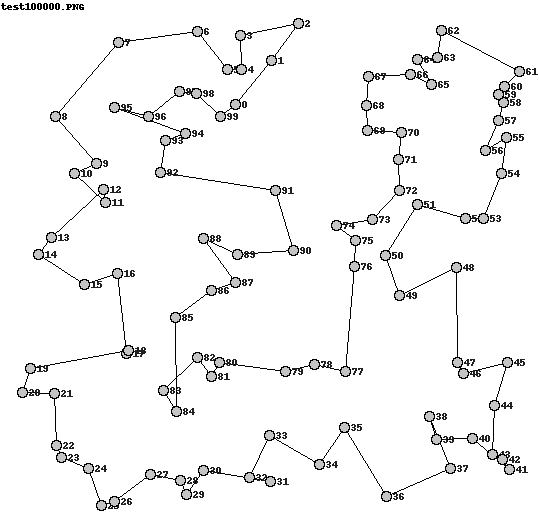
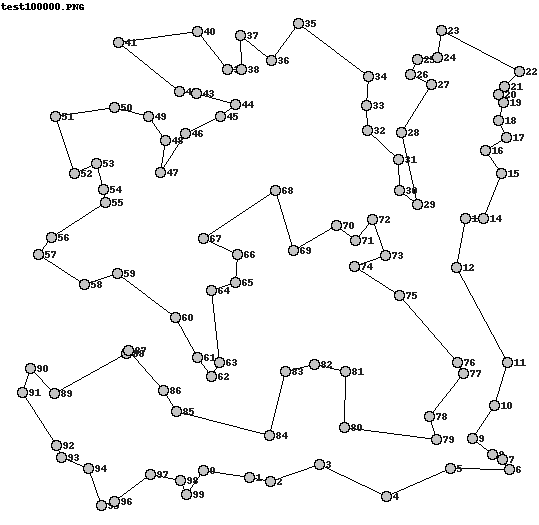
Implemented iterated local search

diff --git a/Ex1/TSP.py b/Ex1/TSP.py
@@ -86,6 +86,30 @@ def reversed_sections(tour):
 			if copy != tour: # not returning same tour
 				yield copy
 
+def pertubation(H):
+	"""
+	Tweak current homebase n number of times.
+	n is drawn from gaussian distribution be-
+	tween [20, 380]
+	"""
+	i = int(np.random.normal(200, 180))
+
+	while i >= 0:
+		H = next(reversed_sections(H))
+		i = i - 1
+
+	return H
+
+def score_convergent(latest_scores):
+	"""
+	if last score and current score arn't improving
+	by atleast 1, return stop = true
+	"""
+	stop = False
+	if(latest_scores[1] - latest_scores[0] < 2):
+		stop = True
+	return stop
+
 def init_random_tour(tour_length):
 	tour = list(range(tour_length))
 	random.shuffle(list(tour))
@@ -197,7 +221,7 @@ def sa_hc(init_function, move_operator, objective_function, max_evaluations, num
 				break # depth first search
 		if not move_made:
 			break # couldn't find better move - must be a local max
-	return (num_evaluations, best_score, best)
+	return (num_evaluations, S_score, S)
 
 def sa_hc_wr(init_function, move_operator, objective_function, max_evaluations, number_tweaks):
 	'''
@@ -279,9 +303,9 @@ def simulatedAnealing(init_function, move_operator, objective_function, max_eval
 			t = t - 0.001
 
 			if S_score < best_score :
-				print(best_score)
 				best = S
 				best_score = S_score
+				print(best_score)
 				move_made = True
 				break # depth first search
 
@@ -347,6 +371,63 @@ def tabuSearch(init_function, move_operator, objective_function, max_evaluations
 
 	return(num_evaluations, best_score, best)
 
+def iteratedLocalSearch(init_function, move_operator, objective_function, max_evaluations, number_tweaks):
+	S = init_function()
+	S_score = objective_function(S)
+	Best = S
+	best_score = S_score
+	num_evaluations = 1
+	latest_best = [None] * 2
+
+	while num_evaluations < max_evaluations :
+
+		# search in multiple positions - each in time drawn randomly from time array T
+		time = int(np.random.normal(8000, 2000))
+		S_score = objective_function(S)
+
+		# Basic hill climbing with time extension
+		while num_evaluations < max_evaluations:
+			# move around the current position
+			move_made_local = False
+			for next in move_operator(S):
+				if num_evaluations >= max_evaluations:
+					break
+
+				R = next
+				R_score = objective_function(R)
+				num_evaluations += 1
+				time = time - 1
+
+				if R_score < S_score:
+					S = R
+					S_score = R_score
+					move_made_local = True
+					break # depth first search
+
+				if time <= 0 :
+					break  # time is up - search localy somewhere else
+
+			if S_score < best_score :
+				Best = S
+				best_score = S_score
+				latest_best.pop()
+				latest_best.insert(0, best_score)
+				print(best_score)
+
+			if time <= 0 :
+				break  # time is up - search localy somewhere else
+
+			if not move_made_local:
+				break # couldn't find better move - S must be a local max
+
+		if score_convergent(latest_best) :
+			break;
+
+		# switch to new homebase for basic hillclimbing
+		S = pertubation(Best)
+
+	return(num_evaluations, best_score, Best)
+
 def main():
 	init_function = lambda: init_random_tour(len(coords))
 	objective_function = lambda tour: tour_length(matrix, tour)
@@ -355,9 +436,26 @@ def main():
 		coords = read_coords(coord_file)
 	matrix = cartesian_matrix(coords)
 
-	# evaluate_hc(sa_hc_wr, 100000, reversed_sections, init_function, objective_function, coords, 200)
-	# evaluate_hc(simulatedAnealing, 100000, reversed_sections, init_function, objective_function, coords, 25.)
-	evaluate_hc(tabuSearch, 100000, reversed_sections, init_function, objective_function, coords, 200)
+	print("To select an algorithm, enter corresponding number:")
+	print("\t (1) Steepest Ascent Hill Climbing")
+	print("\t (2) Steepest Ascent Hill Climbing with replacement")
+	print("\t (3) Simulated Annealing ")
+	print("\t (4) Tabu Search")
+	print("\t (5) Iterated Local Search")
+
+	algo = int(input("Enter number of chosen algorith: "))
+
+	if algo == 1:
+		evaluate_hc(sa_hc, 100000, reversed_sections, init_function, objective_function, coords, 200)
+	elif algo == 2:
+		evaluate_hc(sa_hc_wr, 100000, reversed_sections, init_function, objective_function, coords, 200)
+	elif algo == 3:
+		evaluate_hc(simulatedAnealing, 100000, reversed_sections, init_function, objective_function, coords, 25.)
+	elif algo == 4:
+		evaluate_hc(tabuSearch, 100000, reversed_sections, init_function, objective_function, coords, 200)
+	elif algo == 5:
+		evaluate_hc(iteratedLocalSearch, 100000, reversed_sections, init_function, objective_function, coords, 200)
+
 
 if __name__ == "__main__":
 	main()
